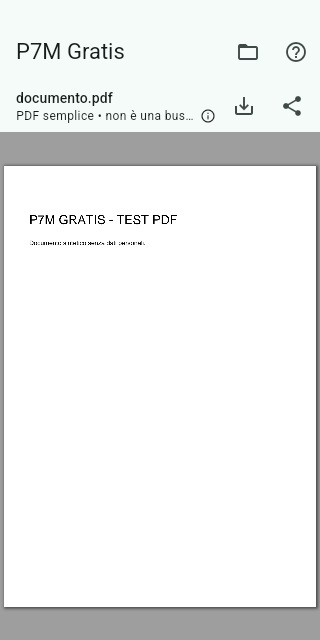
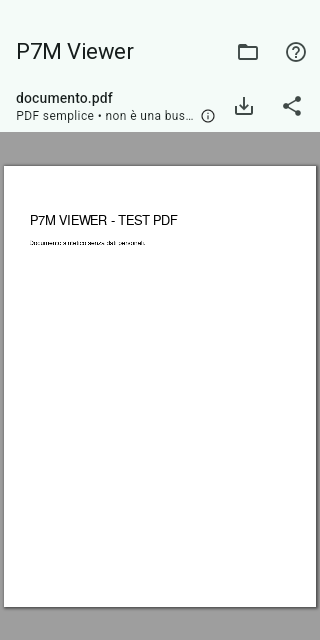
Android 1.3.2: rinomina l'app in P7M Viewer per le norme Google Play sui metadati
Google Play ha rimosso l'app perché il nome conteneva "Gratis", un dettaglio sul prezzo vietato nella scheda dello Store.

- Nome visualizzato Android e iOS: P7M Viewer
- Scheda Store: nome, descrizione breve e completa senza riferimenti al prezzo
- Grafica in primo piano e screenshot aggiornati al nuovo nome; rimosso lo screenshot Informazioni, che mostrava il vecchio testo
- Testo "Gratuita" tolto dalla finestra Informazioni
- Informativa privacy (app e sito) aggiornata al nuovo nome
- Versione 1.3.2 (11); appVersion allineata al pubspec

Il pacchetto app.vcuria.p7m_gratis resta invariato.

Claude-Session: https://claude.ai/code/session_012nJrJHKayDa9Zdt59GdtCV

diff --git a/docs/index.html b/docs/index.html
@@ -1,8 +1,8 @@
-<!doctype html><html lang="it"><head><meta charset="utf-8"><meta name="viewport" content="width=device-width,initial-scale=1"><meta name="description" content="Informativa privacy di P7M Gratis: documenti sul dispositivo, revoca facoltativa e copie temporanee."><title>Privacy — P7M Gratis</title><style>:root{color-scheme:light dark}*{box-sizing:border-box}body{margin:0;background:light-dark(#f5f8f7,#111b19);color:light-dark(#1d2d29,#e5efeb);font:17px/1.65 system-ui,sans-serif}main{max-width:820px;margin:auto;padding:32px 22px 64px}header{padding:24px 0;border-bottom:1px solid #718e8544}h1{font-size:clamp(28px,6vw,40px);line-height:1.15}h2{font-size:21px;margin-top:32px}a{color:light-dark(#14635c,#8adbc7);overflow-wrap:anywhere}p{overflow-wrap:anywhere}.brand{font-weight:700;color:light-dark(#14635c,#8adbc7)}footer{margin-top:40px;border-top:1px solid #718e8544;padding-top:20px}</style></head><body><main><header><div class="brand">P7M Gratis · Vincenzo Curia</div><h1>Informativa privacy</h1><p>Aggiornamento: 21 ottobre 2026 · Versione 1.3.0</p><p>PDF e P7M sul tuo dispositivo. Gratuita, senza pubblicità e senza account.</p></header><section><h2>1. Sviluppatore e contatto</h2><p>P7M Gratis è sviluppata da Vincenzo Curia. Per assistenza, domande sulla privacy ed esercizio dei diritti: <a href="mailto:support@vcuria.app">support@vcuria.app</a>. Sito: https://vcuria.app/.</p></section>
+<!doctype html><html lang="it"><head><meta charset="utf-8"><meta name="viewport" content="width=device-width,initial-scale=1"><meta name="description" content="Informativa privacy di P7M Viewer: documenti sul dispositivo, revoca facoltativa e copie temporanee."><title>Privacy — P7M Viewer</title><style>:root{color-scheme:light dark}*{box-sizing:border-box}body{margin:0;background:light-dark(#f5f8f7,#111b19);color:light-dark(#1d2d29,#e5efeb);font:17px/1.65 system-ui,sans-serif}main{max-width:820px;margin:auto;padding:32px 22px 64px}header{padding:24px 0;border-bottom:1px solid #718e8544}h1{font-size:clamp(28px,6vw,40px);line-height:1.15}h2{font-size:21px;margin-top:32px}a{color:light-dark(#14635c,#8adbc7);overflow-wrap:anywhere}p{overflow-wrap:anywhere}.brand{font-weight:700;color:light-dark(#14635c,#8adbc7)}footer{margin-top:40px;border-top:1px solid #718e8544;padding-top:20px}</style></head><body><main><header><div class="brand">P7M Viewer · Vincenzo Curia</div><h1>Informativa privacy</h1><p>Aggiornamento: 30 ottobre 2026 · Versione 1.3.2</p><p>PDF e P7M sul tuo dispositivo. Gratuita, senza pubblicità e senza account.</p></header><section><h2>1. Sviluppatore e contatto</h2><p>P7M Viewer è sviluppata da Vincenzo Curia. Per assistenza, domande sulla privacy ed esercizio dei diritti: <a href="mailto:support@vcuria.app">support@vcuria.app</a>. Sito: https://vcuria.app/.</p></section>
 <section><h2>2. Documenti sul dispositivo</h2><p>L&#x27;app accede ai file scelti dall&#x27;utente o ricevuti tramite le funzioni Apri con e Condividi del sistema. I documenti possono contenere dati personali, anche sensibili, e i certificati possono identificare i firmatari. Apertura, estrazione, visualizzazione e verifiche crittografiche avvengono sul dispositivo. Lo sviluppatore non riceve i documenti né i nomi dei file attraverso queste funzioni.</p><p>Non sono richiesti account; non sono presenti pubblicità, analytics o telemetria dell&#x27;app. Non vengono create cronologie dei documenti.</p></section>
 <section><h2>3. Controllo facoltativo della revoca</h2><p>Solo premendo Controlla revoca online l&#x27;app contatta gli emittenti o i responder indicati nei certificati. La richiesta OCSP contiene il numero seriale del certificato e gli hash che identificano l&#x27;emittente; per le CRL viene scaricato l&#x27;elenco di revoca. Non viene trasmesso il documento. Il destinatario vede l&#x27;indirizzo IP e può registrare la richiesta secondo la propria informativa. Non controlliamo i suoi tempi di conservazione.</p><p>Alcuni endpoint usano HTTP, altri HTTPS: l&#x27;autenticazione crittografica della risposta non rende cifrata una connessione HTTP. Il controllo è facoltativo e l&#x27;app è utilizzabile senza effettuarlo. Rete assente o risposta non verificabile non producono un esito positivo.</p></section>
 <section><h2>4. Copie temporanee e cancellazione</h2><p>Il documento aperto è mantenuto in memoria durante l&#x27;uso e sostituito all&#x27;apertura di un altro file. Il selettore di file, l&#x27;anteprima e la condivisione possono creare copie temporanee nella cache privata dell&#x27;app o del sistema.</p><p>Le copie di esportazione gestite dall&#x27;app e quelle nella cartella del plugin di condivisione più vecchie di 24 ore vengono rimosse al successivo avvio, se il sistema ne consente la cancellazione. La pulizia non è un servizio attivo in background.</p><p>Il comando Chiudi documento e pulisci temporanei libera il documento dall&#x27;interfaccia e cancella le copie gestite dall&#x27;app, dal selettore file e dal plugin di condivisione. Un errore di pulizia viene segnalato. Non è una garanzia di cancellazione forense o di immediato azzeramento della memoria.</p><p>I file originali, le copie salvate dall&#x27;utente e quelle ricevute da altre app non vengono eliminati. Le copie fuori dal controllo dell&#x27;app seguono le regole del sistema e delle applicazioni destinatarie. La cache può essere rimossa anche dalle impostazioni del sistema; la disinstallazione rimuove i dati privati dell&#x27;app secondo il comportamento del dispositivo.</p></section>
 <section><h2>5. Salvataggio, condivisione e collegamenti</h2><p>Salva scrive una copia nella posizione scelta. Condividi trasferisce il file all&#x27;app selezionata dall&#x27;utente, che applica le proprie regole privacy. Il sito dello sviluppatore, l&#x27;informativa online e il download desktop si aprono nel browser esterno solo su richiesta: non includono documenti o nomi di file nei collegamenti. I siti e i loro fornitori possono trattare IP e dati di navigazione secondo le proprie informative.</p><p>La pagina pubblica di questa informativa è ospitata da GitHub Pages. Informativa del servizio: https://docs.github.com/en/site-policy/privacy-policies/github-general-privacy-statement.</p></section>
 <section><h2>6. Assistenza e diritti</h2><p>Se scrivi a <a href="mailto:support@vcuria.app">support@vcuria.app</a>, i dati che invii vengono utilizzati per gestire la richiesta e gli eventuali adempimenti connessi. Non inviare documenti personali o riservati: per segnalare un errore sono normalmente sufficienti descrizione, versione dell&#x27;app e un campione sintetico.</p><p>Per questo trattamento lo sviluppatore opera come titolare; la base giuridica è la gestione della richiesta dell&#x27;interessato e, quando applicabile, il legittimo interesse a fornire assistenza o un obbligo di legge. I messaggi sono conservati per il tempo necessario alla gestione della richiesta e di eventuali obblighi o contestazioni, non per creare profili pubblicitari.</p><p>Puoi chiedere informazioni, accesso, rettifica, cancellazione, limitazione, opposizione e portabilità nei casi previsti dal GDPR, scrivendo al contatto indicato. Puoi presentare reclamo al Garante per la protezione dei dati personali: https://www.garanteprivacy.it/. Non possiamo recuperare o cancellare documenti che non riceviamo, né dati conservati autonomamente dagli emittenti o da altre app: per questi rivolgiti ai relativi soggetti.</p></section>
-<section><h2>7. Limiti delle verifiche</h2><p>P7M Gratis distingue integrità, catena dei certificati, revoca e marca temporale. Non è un servizio di validazione qualificato e non certifica la validità legale complessiva, la qualificazione eIDAS o la validità storica completa. Verifica anche controfirme e firme interne ai PDF (PAdES), sempre sul dispositivo.</p></section>
+<section><h2>7. Limiti delle verifiche</h2><p>P7M Viewer distingue integrità, catena dei certificati, revoca e marca temporale. Non è un servizio di validazione qualificato e non certifica la validità legale complessiva, la qualificazione eIDAS o la validità storica completa. Verifica anche controfirme e firme interne ai PDF (PAdES), sempre sul dispositivo.</p></section>
 <section><h2>8. Modifiche</h2><p>L&#x27;informativa viene aggiornata se cambiano funzionalità o trattamento dei dati. La versione inclusa nell&#x27;app resta consultabile offline; quella pubblica riporta la data dell&#x27;ultimo aggiornamento.</p><p></p></section><footer><a href="https://vcuria.app/">Sito dello sviluppatore</a> · <a href="mailto:support@vcuria.app">Assistenza e privacy</a><p>Questa pagina non utilizza script, moduli, analytics o cookie applicativi. Il servizio di hosting può registrare le richieste secondo la propria informativa.</p></footer></main></body></html>

diff --git a/docs/privacy.html b/docs/privacy.html
@@ -1,8 +1,8 @@
-<!doctype html><html lang="it"><head><meta charset="utf-8"><meta name="viewport" content="width=device-width,initial-scale=1"><meta name="description" content="Informativa privacy di P7M Gratis: documenti sul dispositivo, revoca facoltativa e copie temporanee."><title>Privacy — P7M Gratis</title><style>:root{color-scheme:light dark}*{box-sizing:border-box}body{margin:0;background:light-dark(#f5f8f7,#111b19);color:light-dark(#1d2d29,#e5efeb);font:17px/1.65 system-ui,sans-serif}main{max-width:820px;margin:auto;padding:32px 22px 64px}header{padding:24px 0;border-bottom:1px solid #718e8544}h1{font-size:clamp(28px,6vw,40px);line-height:1.15}h2{font-size:21px;margin-top:32px}a{color:light-dark(#14635c,#8adbc7);overflow-wrap:anywhere}p{overflow-wrap:anywhere}.brand{font-weight:700;color:light-dark(#14635c,#8adbc7)}footer{margin-top:40px;border-top:1px solid #718e8544;padding-top:20px}</style></head><body><main><header><div class="brand">P7M Gratis · Vincenzo Curia</div><h1>Informativa privacy</h1><p>Aggiornamento: 21 ottobre 2026 · Versione 1.3.0</p><p>PDF e P7M sul tuo dispositivo. Gratuita, senza pubblicità e senza account.</p></header><section><h2>1. Sviluppatore e contatto</h2><p>P7M Gratis è sviluppata da Vincenzo Curia. Per assistenza, domande sulla privacy ed esercizio dei diritti: <a href="mailto:support@vcuria.app">support@vcuria.app</a>. Sito: https://vcuria.app/.</p></section>
+<!doctype html><html lang="it"><head><meta charset="utf-8"><meta name="viewport" content="width=device-width,initial-scale=1"><meta name="description" content="Informativa privacy di P7M Viewer: documenti sul dispositivo, revoca facoltativa e copie temporanee."><title>Privacy — P7M Viewer</title><style>:root{color-scheme:light dark}*{box-sizing:border-box}body{margin:0;background:light-dark(#f5f8f7,#111b19);color:light-dark(#1d2d29,#e5efeb);font:17px/1.65 system-ui,sans-serif}main{max-width:820px;margin:auto;padding:32px 22px 64px}header{padding:24px 0;border-bottom:1px solid #718e8544}h1{font-size:clamp(28px,6vw,40px);line-height:1.15}h2{font-size:21px;margin-top:32px}a{color:light-dark(#14635c,#8adbc7);overflow-wrap:anywhere}p{overflow-wrap:anywhere}.brand{font-weight:700;color:light-dark(#14635c,#8adbc7)}footer{margin-top:40px;border-top:1px solid #718e8544;padding-top:20px}</style></head><body><main><header><div class="brand">P7M Viewer · Vincenzo Curia</div><h1>Informativa privacy</h1><p>Aggiornamento: 30 ottobre 2026 · Versione 1.3.2</p><p>PDF e P7M sul tuo dispositivo. Gratuita, senza pubblicità e senza account.</p></header><section><h2>1. Sviluppatore e contatto</h2><p>P7M Viewer è sviluppata da Vincenzo Curia. Per assistenza, domande sulla privacy ed esercizio dei diritti: <a href="mailto:support@vcuria.app">support@vcuria.app</a>. Sito: https://vcuria.app/.</p></section>
 <section><h2>2. Documenti sul dispositivo</h2><p>L&#x27;app accede ai file scelti dall&#x27;utente o ricevuti tramite le funzioni Apri con e Condividi del sistema. I documenti possono contenere dati personali, anche sensibili, e i certificati possono identificare i firmatari. Apertura, estrazione, visualizzazione e verifiche crittografiche avvengono sul dispositivo. Lo sviluppatore non riceve i documenti né i nomi dei file attraverso queste funzioni.</p><p>Non sono richiesti account; non sono presenti pubblicità, analytics o telemetria dell&#x27;app. Non vengono create cronologie dei documenti.</p></section>
 <section><h2>3. Controllo facoltativo della revoca</h2><p>Solo premendo Controlla revoca online l&#x27;app contatta gli emittenti o i responder indicati nei certificati. La richiesta OCSP contiene il numero seriale del certificato e gli hash che identificano l&#x27;emittente; per le CRL viene scaricato l&#x27;elenco di revoca. Non viene trasmesso il documento. Il destinatario vede l&#x27;indirizzo IP e può registrare la richiesta secondo la propria informativa. Non controlliamo i suoi tempi di conservazione.</p><p>Alcuni endpoint usano HTTP, altri HTTPS: l&#x27;autenticazione crittografica della risposta non rende cifrata una connessione HTTP. Il controllo è facoltativo e l&#x27;app è utilizzabile senza effettuarlo. Rete assente o risposta non verificabile non producono un esito positivo.</p></section>
 <section><h2>4. Copie temporanee e cancellazione</h2><p>Il documento aperto è mantenuto in memoria durante l&#x27;uso e sostituito all&#x27;apertura di un altro file. Il selettore di file, l&#x27;anteprima e la condivisione possono creare copie temporanee nella cache privata dell&#x27;app o del sistema.</p><p>Le copie di esportazione gestite dall&#x27;app e quelle nella cartella del plugin di condivisione più vecchie di 24 ore vengono rimosse al successivo avvio, se il sistema ne consente la cancellazione. La pulizia non è un servizio attivo in background.</p><p>Il comando Chiudi documento e pulisci temporanei libera il documento dall&#x27;interfaccia e cancella le copie gestite dall&#x27;app, dal selettore file e dal plugin di condivisione. Un errore di pulizia viene segnalato. Non è una garanzia di cancellazione forense o di immediato azzeramento della memoria.</p><p>I file originali, le copie salvate dall&#x27;utente e quelle ricevute da altre app non vengono eliminati. Le copie fuori dal controllo dell&#x27;app seguono le regole del sistema e delle applicazioni destinatarie. La cache può essere rimossa anche dalle impostazioni del sistema; la disinstallazione rimuove i dati privati dell&#x27;app secondo il comportamento del dispositivo.</p></section>
 <section><h2>5. Salvataggio, condivisione e collegamenti</h2><p>Salva scrive una copia nella posizione scelta. Condividi trasferisce il file all&#x27;app selezionata dall&#x27;utente, che applica le proprie regole privacy. Il sito dello sviluppatore, l&#x27;informativa online e il download desktop si aprono nel browser esterno solo su richiesta: non includono documenti o nomi di file nei collegamenti. I siti e i loro fornitori possono trattare IP e dati di navigazione secondo le proprie informative.</p><p>La pagina pubblica di questa informativa è ospitata da GitHub Pages. Informativa del servizio: https://docs.github.com/en/site-policy/privacy-policies/github-general-privacy-statement.</p></section>
 <section><h2>6. Assistenza e diritti</h2><p>Se scrivi a <a href="mailto:support@vcuria.app">support@vcuria.app</a>, i dati che invii vengono utilizzati per gestire la richiesta e gli eventuali adempimenti connessi. Non inviare documenti personali o riservati: per segnalare un errore sono normalmente sufficienti descrizione, versione dell&#x27;app e un campione sintetico.</p><p>Per questo trattamento lo sviluppatore opera come titolare; la base giuridica è la gestione della richiesta dell&#x27;interessato e, quando applicabile, il legittimo interesse a fornire assistenza o un obbligo di legge. I messaggi sono conservati per il tempo necessario alla gestione della richiesta e di eventuali obblighi o contestazioni, non per creare profili pubblicitari.</p><p>Puoi chiedere informazioni, accesso, rettifica, cancellazione, limitazione, opposizione e portabilità nei casi previsti dal GDPR, scrivendo al contatto indicato. Puoi presentare reclamo al Garante per la protezione dei dati personali: https://www.garanteprivacy.it/. Non possiamo recuperare o cancellare documenti che non riceviamo, né dati conservati autonomamente dagli emittenti o da altre app: per questi rivolgiti ai relativi soggetti.</p></section>
-<section><h2>7. Limiti delle verifiche</h2><p>P7M Gratis distingue integrità, catena dei certificati, revoca e marca temporale. Non è un servizio di validazione qualificato e non certifica la validità legale complessiva, la qualificazione eIDAS o la validità storica completa. Verifica anche controfirme e firme interne ai PDF (PAdES), sempre sul dispositivo.</p></section>
+<section><h2>7. Limiti delle verifiche</h2><p>P7M Viewer distingue integrità, catena dei certificati, revoca e marca temporale. Non è un servizio di validazione qualificato e non certifica la validità legale complessiva, la qualificazione eIDAS o la validità storica completa. Verifica anche controfirme e firme interne ai PDF (PAdES), sempre sul dispositivo.</p></section>
 <section><h2>8. Modifiche</h2><p>L&#x27;informativa viene aggiornata se cambiano funzionalità o trattamento dei dati. La versione inclusa nell&#x27;app resta consultabile offline; quella pubblica riporta la data dell&#x27;ultimo aggiornamento.</p><p></p></section><footer><a href="https://vcuria.app/">Sito dello sviluppatore</a> · <a href="mailto:support@vcuria.app">Assistenza e privacy</a><p>Questa pagina non utilizza script, moduli, analytics o cookie applicativi. Il servizio di hosting può registrare le richieste secondo la propria informativa.</p></footer></main></body></html>

diff --git a/mobile/lib/main.dart b/mobile/lib/main.dart
@@ -27,7 +27,7 @@ class P7mApp extends StatelessWidget {
   const P7mApp({super.key});
   @override
   Widget build(BuildContext context) => MaterialApp(
-    title: 'P7M Gratis',
+    title: 'P7M Viewer',
     debugShowCheckedModeBanner: false,
     theme: ThemeData(
       colorScheme: ColorScheme.fromSeed(seedColor: const Color(0xff14635c)),
@@ -391,7 +391,7 @@ class _HomeState extends State<Home> {
       context: context,
       builder: (dialogContext) => AlertDialog(
         scrollable: true,
-        title: const Text('P7M Gratis'),
+        title: const Text('P7M Viewer'),
         content: Column(
           crossAxisAlignment: CrossAxisAlignment.start,
           mainAxisSize: MainAxisSize.min,
@@ -404,7 +404,7 @@ class _HomeState extends State<Home> {
             const Text('Versione $appVersion'),
             const SizedBox(height: 12),
             const Text(
-              'PDF e documenti P7M in una sola app. Gratuita, senza pubblicità e senza account.',
+              'PDF e documenti P7M in una sola app, senza pubblicità e senza account.',
             ),
             const SizedBox(height: 16),
             TextButton.icon(
@@ -435,7 +435,7 @@ class _HomeState extends State<Home> {
             TextButton.icon(
               onPressed: () => showLicensePage(
                 context: context,
-                applicationName: 'P7M Gratis',
+                applicationName: 'P7M Viewer',
                 applicationVersion: appVersion,
                 applicationLegalese: 'Sviluppata da Vincenzo Curia',
               ),
@@ -490,7 +490,7 @@ class _HomeState extends State<Home> {
     return Scaffold(
       appBar: AppBar(
         title: const Text(
-          'P7M Gratis',
+          'P7M Viewer',
           maxLines: 1,
           overflow: TextOverflow.ellipsis,
         ),

diff --git a/mobile/lib/help.dart b/mobile/lib/help.dart
@@ -1,7 +1,7 @@
 import 'package:flutter/material.dart';
 import 'package:flutter/services.dart';
 
-const appVersion = '1.2.0 (7)';
+const appVersion = '1.3.2 (11)';
 const privacyUrl = 'https://vincenzocuria.github.io/P7m_Gratis/privacy.html';
 const supportEmail = 'support@vcuria.app';
 

diff --git a/mobile/PRIVACY.md b/mobile/PRIVACY.md
@@ -1,8 +1,8 @@
-# Informativa privacy — P7M Gratis
-Aggiornamento: 21 ottobre 2026 · Versione 1.3.0
+# Informativa privacy — P7M Viewer
+Aggiornamento: 30 ottobre 2026 · Versione 1.3.2
 
 1. Sviluppatore e contatto
-P7M Gratis è sviluppata da Vincenzo Curia. Per assistenza, domande sulla privacy ed esercizio dei diritti: support@vcuria.app. Sito: https://vcuria.app/.
+P7M Viewer è sviluppata da Vincenzo Curia. Per assistenza, domande sulla privacy ed esercizio dei diritti: support@vcuria.app. Sito: https://vcuria.app/.
 
 2. Documenti sul dispositivo
 L'app accede ai file scelti dall'utente o ricevuti tramite le funzioni Apri con e Condividi del sistema. I documenti possono contenere dati personali, anche sensibili, e i certificati possono identificare i firmatari. Apertura, estrazione, visualizzazione e verifiche crittografiche avvengono sul dispositivo. Lo sviluppatore non riceve i documenti né i nomi dei file attraverso queste funzioni.
@@ -28,7 +28,7 @@ Per questo trattamento lo sviluppatore opera come titolare; la base giuridica è
 Puoi chiedere informazioni, accesso, rettifica, cancellazione, limitazione, opposizione e portabilità nei casi previsti dal GDPR, scrivendo al contatto indicato. Puoi presentare reclamo al Garante per la protezione dei dati personali: https://www.garanteprivacy.it/. Non possiamo recuperare o cancellare documenti che non riceviamo, né dati conservati autonomamente dagli emittenti o da altre app: per questi rivolgiti ai relativi soggetti.
 
 7. Limiti delle verifiche
-P7M Gratis distingue integrità, catena dei certificati, revoca e marca temporale. Non è un servizio di validazione qualificato e non certifica la validità legale complessiva, la qualificazione eIDAS o la validità storica completa. Verifica anche controfirme e firme interne ai PDF (PAdES), sempre sul dispositivo.
+P7M Viewer distingue integrità, catena dei certificati, revoca e marca temporale. Non è un servizio di validazione qualificato e non certifica la validità legale complessiva, la qualificazione eIDAS o la validità storica completa. Verifica anche controfirme e firme interne ai PDF (PAdES), sempre sul dispositivo.
 
 8. Modifiche
 L'informativa viene aggiornata se cambiano funzionalità o trattamento dei dati. La versione inclusa nell'app resta consultabile offline; quella pubblica riporta la data dell'ultimo aggiornamento.

diff --git a/mobile/README.md b/mobile/README.md
@@ -1,10 +1,10 @@
-# P7M Gratis mobile 1.2.0
+# P7M Viewer mobile 1.2.0
 
-App gratuita per Android e iOS: apre buste CAdES/PKCS#7, estrae il documento e mostra i risultati delle verifiche. Non richiede account, abbonamenti o pubblicità. I documenti vengono elaborati sul dispositivo.
+App per Android e iOS: apre buste CAdES/PKCS#7, estrae il documento e mostra i risultati delle verifiche. Non richiede account, abbonamenti o pubblicità. I documenti vengono elaborati sul dispositivo.
 
 ## Uso
 
-1. Premi **Apri un P7M o PDF** o apri/condividi un allegato con P7M Gratis.
+1. Premi **Apri un P7M o PDF** o apri/condividi un allegato con P7M Viewer.
 2. Consulta il documento estratto: PDF, immagini, XML o testo. Altri formati possono essere salvati e aperti con l'app adatta.
 3. Nella scheda **Firme**, leggi separatamente integrità, certificato, marca temporale e revoca.
 4. Premi **Controlla revoca online** per contattare gli emittenti dei certificati. Il documento non viene caricato.
